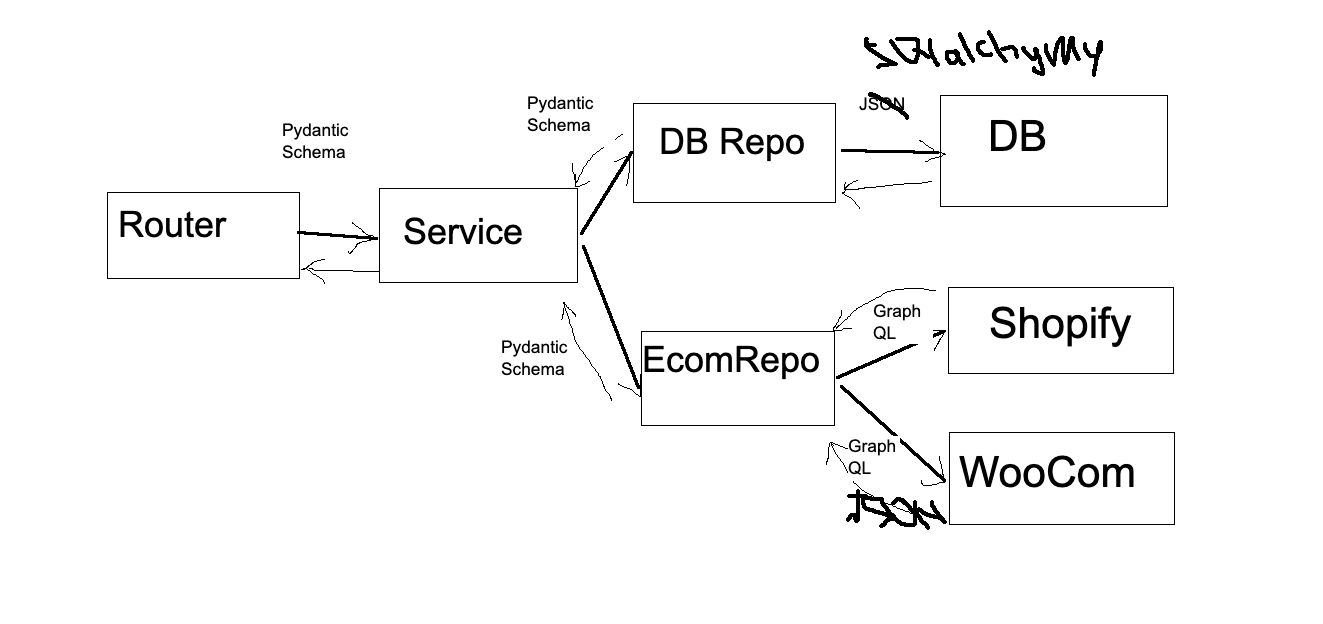
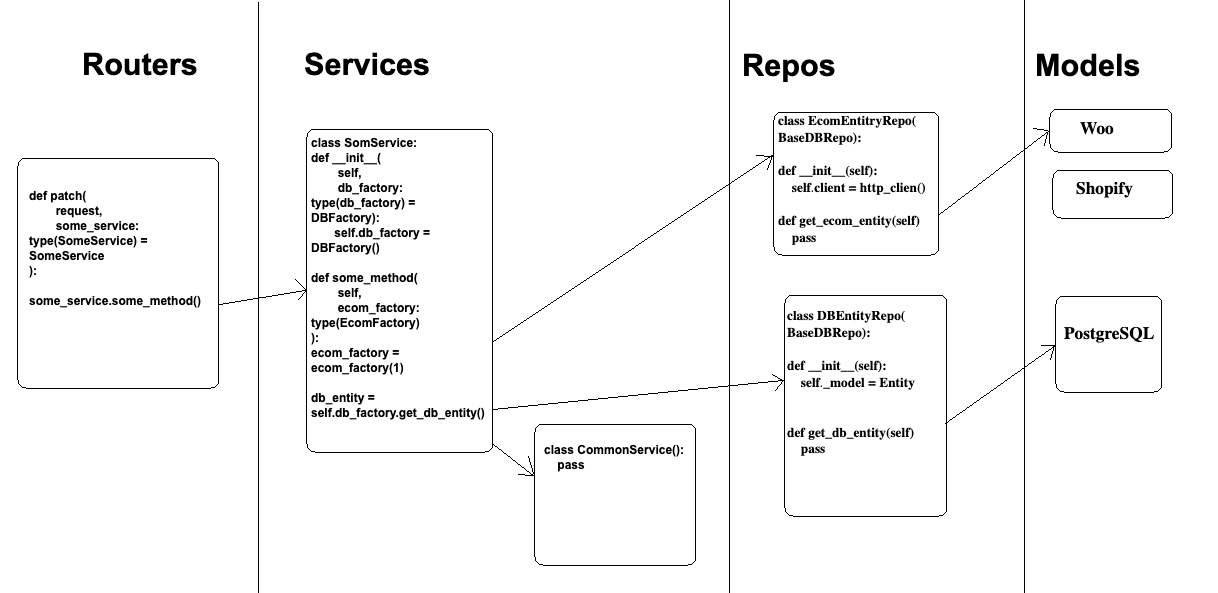
updated docs

diff --git a/README.md b/README.md
@@ -1,36 +1,89 @@
 # EXAMPLE OF A NEW PROJECT ARCHITECTURE
 
-## MAIN POINTS
+## Architecture key points
 
-### Define layers:
+### Layers
 
-#### There are 4 layers from top to bottom:
-  - routers: following to REST just call corresponding services
-  - services: implement business logic by calling DBRepos and EcomRepos
-  - repos: interact with DB and EcomPlatforms
-  - models: just keep DB data
+#### We define 4 separated layers (MVC + Repos):
 
-#### Layers can only strictly call non-supervising layers
+1. Routers (Views) - responsible for validating client payload (if it's provided) and calling corresponding services.
+2. Services (Controllers) - responsible for performing business logic, calling Repos for data management.
+3. Repos - responsible for interacting with Data Sources, making queries to DB / API services.
+4. Models - responsible to keep the data.
+
+
+#### We define the way layers are going to interact:
+
+- Interaction between layers strictly goes from top to bottom.
+- Only neighbor layers can interact.
+- Layers cannot interact with themselves (Services fall under the exception due to having reused logic).
+
+<i>Right:</i><br/>
+- <b>Routers</b> can call <b>Services</b>
+- <b>Services</b> can call <b>Repos</b>
+- <b>Repos</b> can call <b>Models</b>
+- <b>Services</b> can call <b>Services</b>
+
+<i>Wrong:</i><br/>
+- <b>Repos</b> cannot call <b>Services</b>
+- <b>Services</b> cannot call <b>Models</b>
+- <b>Repos</b> cannot call <b>Repos</b>
+
 ![alt text](./docs/arc.png)
 
-#### Interaction between layers is mostly implemented by DTOs (pydantic schemas)
-  - It reduces manual validations and helps discover errors earlier
-  - It makes signatures for funcs/methods shorter
-  - Try to avoid `*args` and `**kwargs` if you know possible arguments. Better
-       define pydantic model with optional fields.
+### Treat Ecommerce Platforms as Data Sources.
 
+We perform the same types of operations (CRUD) by interacting with Ecommerce Platforms
+as we do with our DataBase. So, lets provide Repos for them as well.
+
+### Use Classes instead of functions
+- func-based routers -> classed-based routers
+- (?) func-based services -> class-based services
+- crud operations -> repos
+
+### Dependency Injection & Dependency Inversion
+
+- Provide called code as a dependency instead of using it in place.
+
+- Use interfaces for the dependencies instead of specific implementations. 
+
+- Use specific implementation as a default value for the dependency
+if only one implementation is actually going to be used.
 
 ### Define public API:
 
+- use `_<name>` to not expose methods/funcs outside class/module.
 - each module should have `__all__` at the top of itself exposing only what can be used out of it.
 - each package should have `__all__` in its `__init__.py` exposing only what can be used out of it.
-- use relative imports for the units implemented within the same package.
-- use absolute imports for the units implemented outside current package.
-- usr `_Name` to no expose methods outside class/module
+- use relative imports for the modules implemented within the same package.
+- use absolute imports for the modules implemented outside current package.
 
+## As the result we have:
 
-### Provide `Dependency Injection` and `Dependency Inversion`
-- combine related logic in each layer into classes
-- try to provide calls to external layers as dependency
-- implement corresponding abstracts for the dependencies
-- provide default values for those dependencies if it's possible
+### Separation into layers
+  - Provides us with an easier way to walk through the project.
+
+### Provided Repos for Ecommerce Platforms
+  - Simplify further integrations with new platforms, by extending code and not modifying the existing one.
+
+### Using classes than functions:
+  - For routers, it becomes easier to follow REST.
+  - For repos, it enables us to inherit base repos omitting code duplicating.
+  - (?) For services, it makes us easier to provide type annotations for routers' dependencies. 
+
+### Dependency Injection & Dependency Inversion 
+  - Provides us with loose-coupled code parts, enabling to easily replace layers with smth different in the future
+      (e.g.: move from FASTApi -> Falcon, from SQLAlchemy -> raw SQL queries, or smth else).
+  - Provides us with an easier way to interact with different Ecommerce platforms by treating them as one universal thing. 
+  - Provides us with an easier way to cover project with tests, since code in each layer can be tested separately provided with mocked dependencies.
+
+### Defined public API:
+  - Improves readability:
+    - Shortens import statements
+    - Explicitly displays what can be used outside
+    - Improves IDE suggesting usage, as not listed in `__all__` units will not be
+          suggested by IDE to import in.
+
+  - Prevents cycled imports
+    - Even though using `*` is a bad practice and should be avoided,
+        we additionally omit internal units from importing as they are not listed in `__all__`
